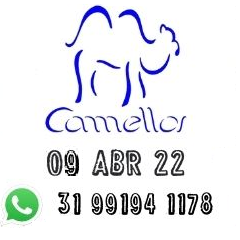
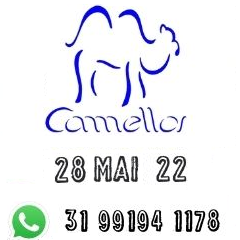
v1

diff --git a/index.html b/index.html
@@ -315,9 +315,26 @@
         <div class="fix-7-12">
           <h1 class="smaller margin-bottom-2 ae-1">1ª Etapa - Camellos Race </h1>
           
-          <h2 class="smaller margin-bottom-2 ae-1">Perdões - MG</h2>
-          <h2 class="smaller margin-bottom-2 ae-1">28/05/2022</h2>
+          <h1 class="smaller margin-bottom-2 ae-1">Perdões - MG</h1>
+          <h1 class="smaller margin-bottom-2 ae-1">28/05/2022</h1>
 
+          <table style="border-collapse: collapse; width: 100%;" border="0">
+            <tbody>
+            <tr>
+            <td style="width: 40%;"><a href="https://perdoes.mg.gov.br/"> <img src="http://camellosadventure.com.br/assets/img/pmperdoes.png" alt="" /> </a> </td>
+            </tr>
+            </tbody>
+          </table>
+
+          <table style="border-collapse: collapse; width: 100%;" border="0">
+            <tbody>
+            <tr>
+            <td style="width: 30%;"><a href="#"> <img src="http://camellosadventure.com.br/assets/img/AMEA.png" alt="" /> </a> </td>
+            <td style="width: 20%;">&nbsp;</td>
+            <td style="width: 30%;"><a href="https://cbcaventura.org.br/" target="_blank"> <img src="http://camellosadventure.com.br/assets/img/CopaBrasil.png" alt="" /> </a> </td>
+            </tr>
+            </tbody>
+          </table>
 
 <!--
 
